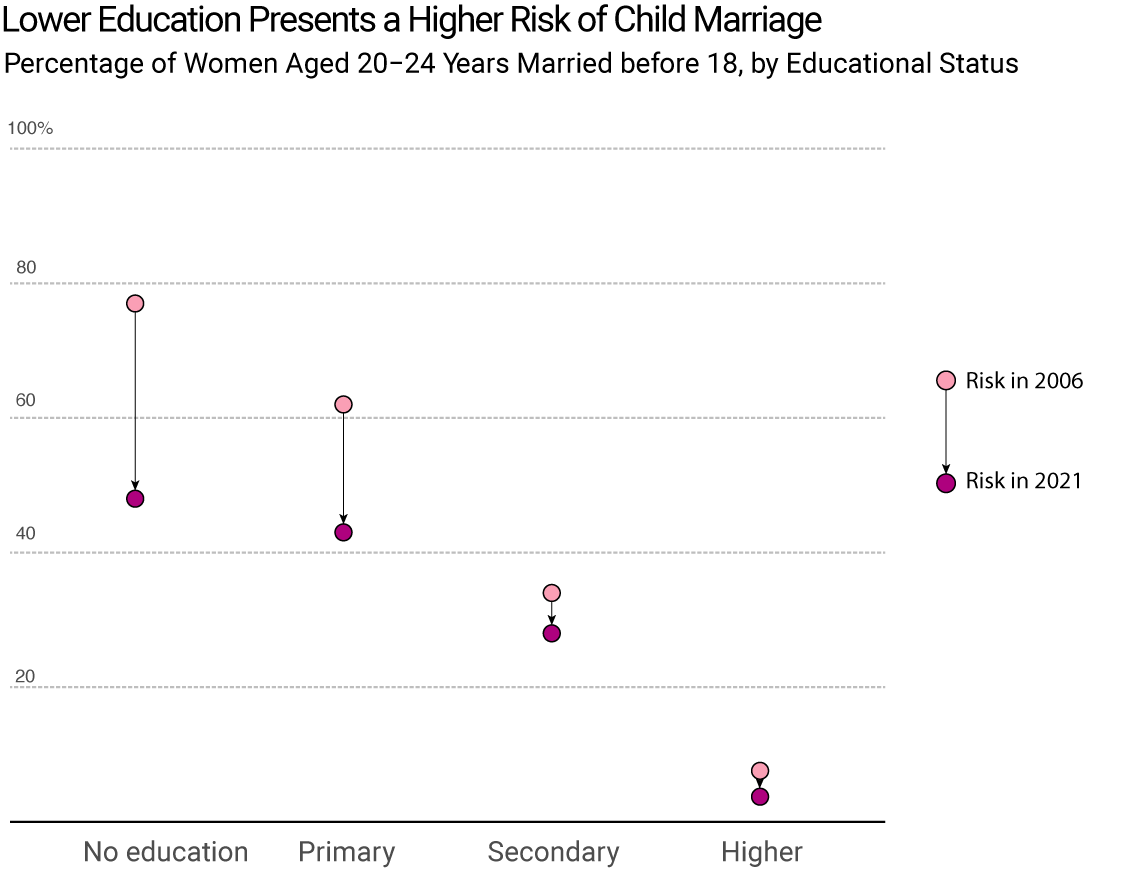
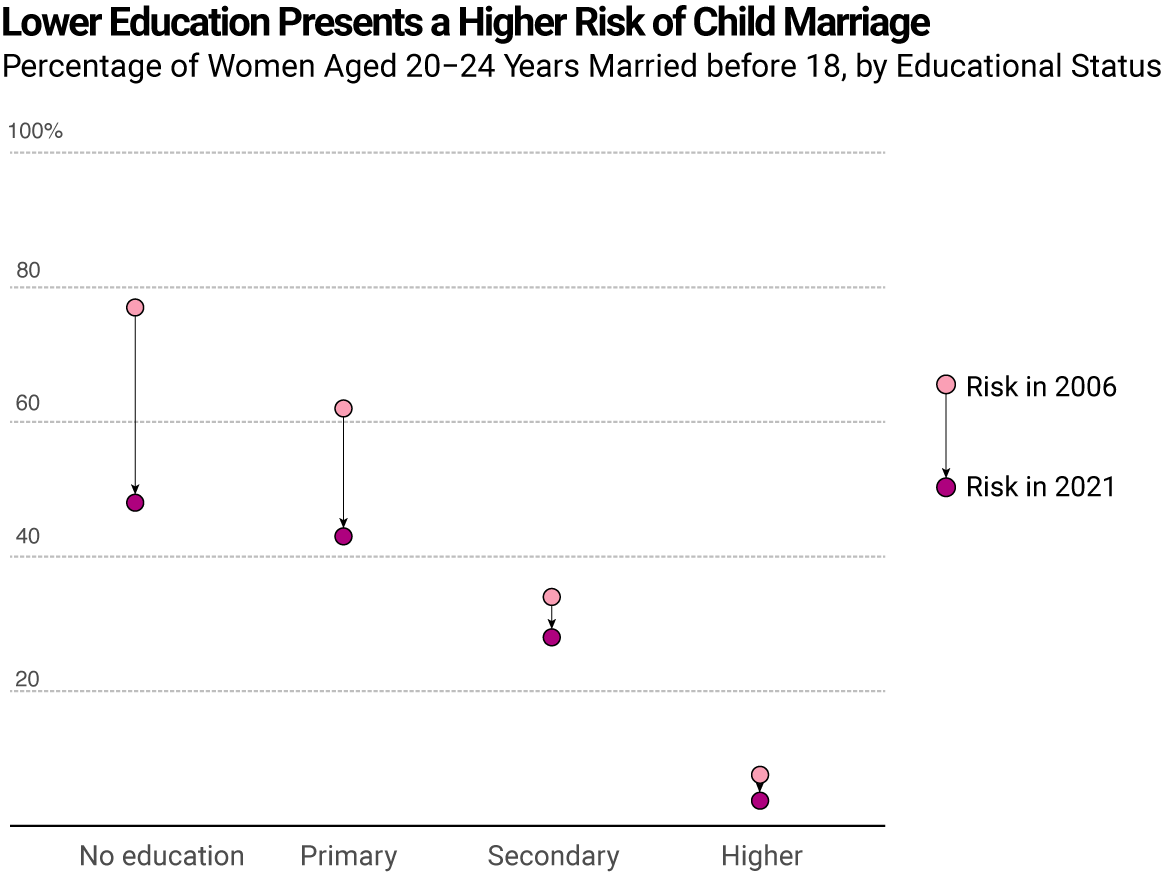
Updated styles on Saturday

diff --git a/child-brides-india/index.html b/child-brides-india/index.html
@@ -1,39 +1,59 @@
 <!DOCTYPE html>
-<html>
-    <body>
-        <head>
-            <title>Daughters Not Brides</title>
-            <link rel="stylesheet" href="styles.css">
-            <link rel="preconnect" href="https://fonts.googleapis.com">
-            <link rel="preconnect" href="https://fonts.gstatic.com" crossorigin>
-            <link href="https://fonts.googleapis.com/css2?family=Crimson+Text:ital,wght@0,400;0,600;0,700;1,400;1,600;1,700&family=Roboto:ital,wght@0,100;0,300;0,400;0,500;0,700;0,900;1,100;1,300;1,400;1,500;1,700;1,900&display=swap" rel="stylesheet">
-        </head>
-
+<html lang="en">
+<head>
+    <meta charset="UTF-8">
+    <meta name="viewport" content="width=device-width, initial-scale=1.0">
+    <title>Daughters Not Brides</title>
+    <link rel="stylesheet" href="styles.css">
+    <link href="https://fonts.googleapis.com/css2?family=Crimson+Text:ital,wght@0,400;0,600;0,700;1,400;1,600;1,700&family=Roboto:ital,wght@0,100;0,300;0,400;0,500;0,700;0,900;1,100;1,300;1,400;1,500;1,700;1,900&display=swap" rel="stylesheet">
+</head>
+<body>
+    <header>
         <h1>Daughters Not Brides: Child Marriage in India</h1>
-        <p class = "name">By Shreyas Mishra · 2 May 2024</p>
-        <div class ="divider"></div>
-        <p> Child marriage is a human rights violation that affects millions of children worldwide. It is a harmful practice that disproportionately affects younger girls. Although the prevalence rate of child marriage among girls in India stands at 23%, the absolute count conveys a horrifying reality. </p>
-        <img id= "img5" src="images/worldAbsoluteBar.png">
+        <p class="author">By Shreyas Mishra | May 2, 2024</p>
+        <div class="divider"></div>
+    </header>
 
-        <p> Child marriage is becoming less common in India, but the country still
-            accounts for one in three of the world’s child brides. Child brides include girls under 18 who are already married, as well as women of all ages who first married
-            in childhood.</p>
-        <img id= "img2" src="images/worldProp.png">
-        
-        <div class ="divider"></div>
-        <h2> Statewise Disparity</h2>
-        <p>Child marriage is more prevalent in rural areas than in urban areas. The prevalence of child marriage is highest in the central and eastern parts of India. </p>
-        <img id= "img3" src="images/IndiaMap.png">
-        <p>Over half of the girls and women in India who married in childhood live in five states: Uttar Pradesh, Bihar, West Bengal, Maharashtra and Madhya Pradesh. Uttar Pradesh is home to the largest number.</p>
-        <img id= "img2" src="images/StatePie.png">
-        <div class ="divider"></div>
-        <h2>Has the Situation Improved in the Last 15 Years?</h2>
-        <p>Educational attainment and economic conditions are significant factors influencing child marriage rates. Lower education levels and poverty are closely linked with higher incidences of child marriage. We compare the drop in risk rates with data from 15 years ago.</p> 
-        <img id= "img4" src="images/education.png">
-        <img id= "img4" src="images/wealth.png">
-        
-        <div class ="divider"></div>
-        <h2> Data Sources</h2>
-        <p> Most of the Data is sourced from the National Family and Health Survey conducted by the Government of India every 5 years. Global data was sourced from the the World Bank Population Dataset, UNICEF dataset on Child Marriage, and UN data on girls married under the age of 18.</p>
-    </body>
+    <main>
+        <section>
+            <h2>The Issue at Hand</h2>
+            <p>Child marriage remains a pressing human rights issue affecting millions globally, particularly young girls. Despite progress, India still harbors a significant share of the world's child brides. Even though the prevalence rate of child marriage in India currently stands a 23%, the sheer population of the country means that the absolute number will be much higher. </p>
+            <img src="images/worldAbsoluteBar.png" alt="World Child Marriage Statistics">
+            <p> Efforts to combat child marriage in India have evolved over the years, reflecting a growing awareness and targeted action against this social issue. The "Child Marriage Restraint Act" was initially enacted in 1929 and later amended in 1978 to raise the legal age of marriage to 21 for males and 18 for females, setting a legal framework against child marriage. Building on legislative measures, more recent initiatives have focused on both prevention and empowerment. In 1991, India took a significant step towards addressing child marriage by enacting the "Prohibition of Child Marriage Act," which implemented stricter enforcement mechanisms and penalties for those involved in facilitating or conducting child marriages. This Act was a crucial legislative effort to strengthen the existing framework that prohibited child marriages. It aimed to curtail the practice by making it punishable with rigorous imprisonment and fines, thereby deterring the social acceptance of child marriages. Despite all these efforts, if we look at the agregate count, we witness a horrifying reality.   </p>
+            <img src="images/worldProp.png" alt="World Child Marriage Statistics">
+
+        </section>
+
+        <section>
+            <h2>Regional Disparities</h2>
+            <p>Child marriage is notably prevalent in rural settings where traditional practices strongly influence daily life. In regions like central and eastern India—states such as Bihar, West Bengal, and Odisha—the rates of child marriage are alarmingly high. These areas, often characterized by higher levels of poverty and lower educational attainment, see families marrying off daughters at a young age as a means to reduce financial burden or as adherence to age-old customs. </p>
+            <img src="images/IndiaMap.png" alt="India Child Marriage Heatmap">
+            <img src="images/StatePie.png" alt="Statewise Child Marriage Distribution">
+        </section>
+
+        <section>
+            <h2>Significant Progress but a Long Journey Ahead</h2>
+            <p>In 2005, the "Balika Samriddhi Yojana" was launched to provide scholarships to girls and encourage their education as a deterrent against early marriage. The "Beti Bachao, Beti Padhao" campaign, introduced in 2015, further emphasized the importance of educating and empowering girls, alongside robust community outreach to prevent child marriages. NGOs have also played a crucial role; for instance, the "Bell Bajao" campaign by Breakthrough started in 2008, urging men and boys to challenge domestic violence and child marriage in their communities. Meanwhile, international organizations like UNICEF have collaborated on various projects to support these national efforts, focusing on multi-sectoral approaches from the 2000s onward. These chronological steps illustrate a deepening commitment and layered approach to eradicating child marriage in India through legal, educational, and community-driven strategies. Educational and economic factors play pivotal roles in combatting child marriage. A comparison with data from fifteen years ago reveals encouraging trends in risk reduction.</p>
+            <div class="comparison">
+                <img src="images/education.png" alt="Education Impact on Child Marriage">
+                <img src="images/wealth.png" alt="Wealth Impact on Child Marriage">
+            </div>
+        </section>
+
+        <section>
+            <h2>Data Sources</h2>
+            <p>Data for this report is primarily sourced from the National Family and Health Survey by the Government of India, supplemented by global datasets from the World Bank and UNICEF.</p>
+            <p> National Family and Health Survey Reports: <a href="https://dhsprogram.com/methodology/survey/survey-display-541.cfm">DHS Survey: 2019-2021</a>.
+                <a href="https://dhsprogram.com/publications/publication-FRIND3-DHS-Final-Reports.cfm">DHS Survey: 2005-2006.</a></p>   
+
+            <p>Raw Data for these surveys was made available upon request using this <a href="https://dhsprogram.com/data/dataset/India_Standard-DHS_2020.cfm?flag=1"> link.</a></p>
+            <p> UNICEF Reports: 
+                <ol> 
+                    <li> <a href = "https://data.unicef.org/resources/is-an-end-to-child-marriage-within-reach/"> Is an End to Child Marriage within Reach?</a></li>
+                    <li> <a href = "https://data.unicef.org/resources/towards-ending-child-marriage/"> Towards ending child marriage: Global trends and profiles of progress</a></li>
+                </ol> 
+            </p>
+        </section>
+    </main>
+</body>
 </html>

diff --git a/child-brides-india/styles.css b/child-brides-india/styles.css
@@ -1,72 +1,60 @@
-img, p, h1, h2, h3, .divider {
-	width: 100%;
-	max-width: 700px;
-	margin-left: auto;
-	margin-right: auto;
+body {
+    font-family: "Crimson Text", serif;
+    color: #333;
+    margin: 0;
+    padding: 0;
+}
+
+header, main {
+    
+    max-width: 800px;
+    margin: 0 auto;
+    padding: 20px;
+}
+
+
+header {
+    text-align: center;
+}
+
+
+h1 {
+    font-family: "Roboto", sans-serif;
+    font-weight: 700;
+    color: #7a0177;
+    margin-bottom: 10px;
+}
+
+.author {
+    font-size: 16px;
+    color: #666;
 }
 
 .divider {
     height: 2px;
     background: linear-gradient(to right, #7a0177, transparent);
-    margin-top: 10px;
+    margin: 20px 0;
+}
+
+section {
+    margin-bottom: 40px;
+}
+
+h2 {
+    color: #7a0177;
+    font-size: 24px;
+    font-weight: 600;
     margin-bottom: 10px;
 }
-
-
-.name{
-    font-size: 20px;
-    font-family: "Roboto";
-    color: #49494c;
-    text-align: left;
-    margin-top: 10px;
-    margin-bottom: 10px;
-}
-
-
-#img2 {
-    display: block;
-    margin-left: auto;
-    margin-right: auto;
-    max-width: 800px;
-}
-
-#img3 {
-    display: block;
-    margin-left: auto;
-    margin-right: auto;
-    max-width: 750px;
-    padding: 15px 0px;
-    transform: translateX(60px); 
-}
-
-#img4 {
-    display: block;
-    margin-left: auto;
-    margin-right: auto;
-    max-width: 800px;
-    padding: 15px 0px;
-    transform: translateX(50px); 
-}
-#img5 {
-    display: block;
-    margin-left: auto;
-    margin-right: auto;
-    max-width: 800px;
-    padding: 15px 0px;
-    transform: translateX(50px); 
-}
-img {
-	display: block;
-	padding: 15px 0px;
-}
-
 
 p {
-	font-size: 18px;
-	line-height: 1.4;
-	font-family: "Crimson Text";
+    font-size: 18px;
+    line-height: 1.6;
 }
 
-h1, h2 { 
-font-family: "Roboto";
+img {
+    display: block;
+    margin: 0 auto;
+    max-width: 100%;
+    padding: 15px 0;
 }
